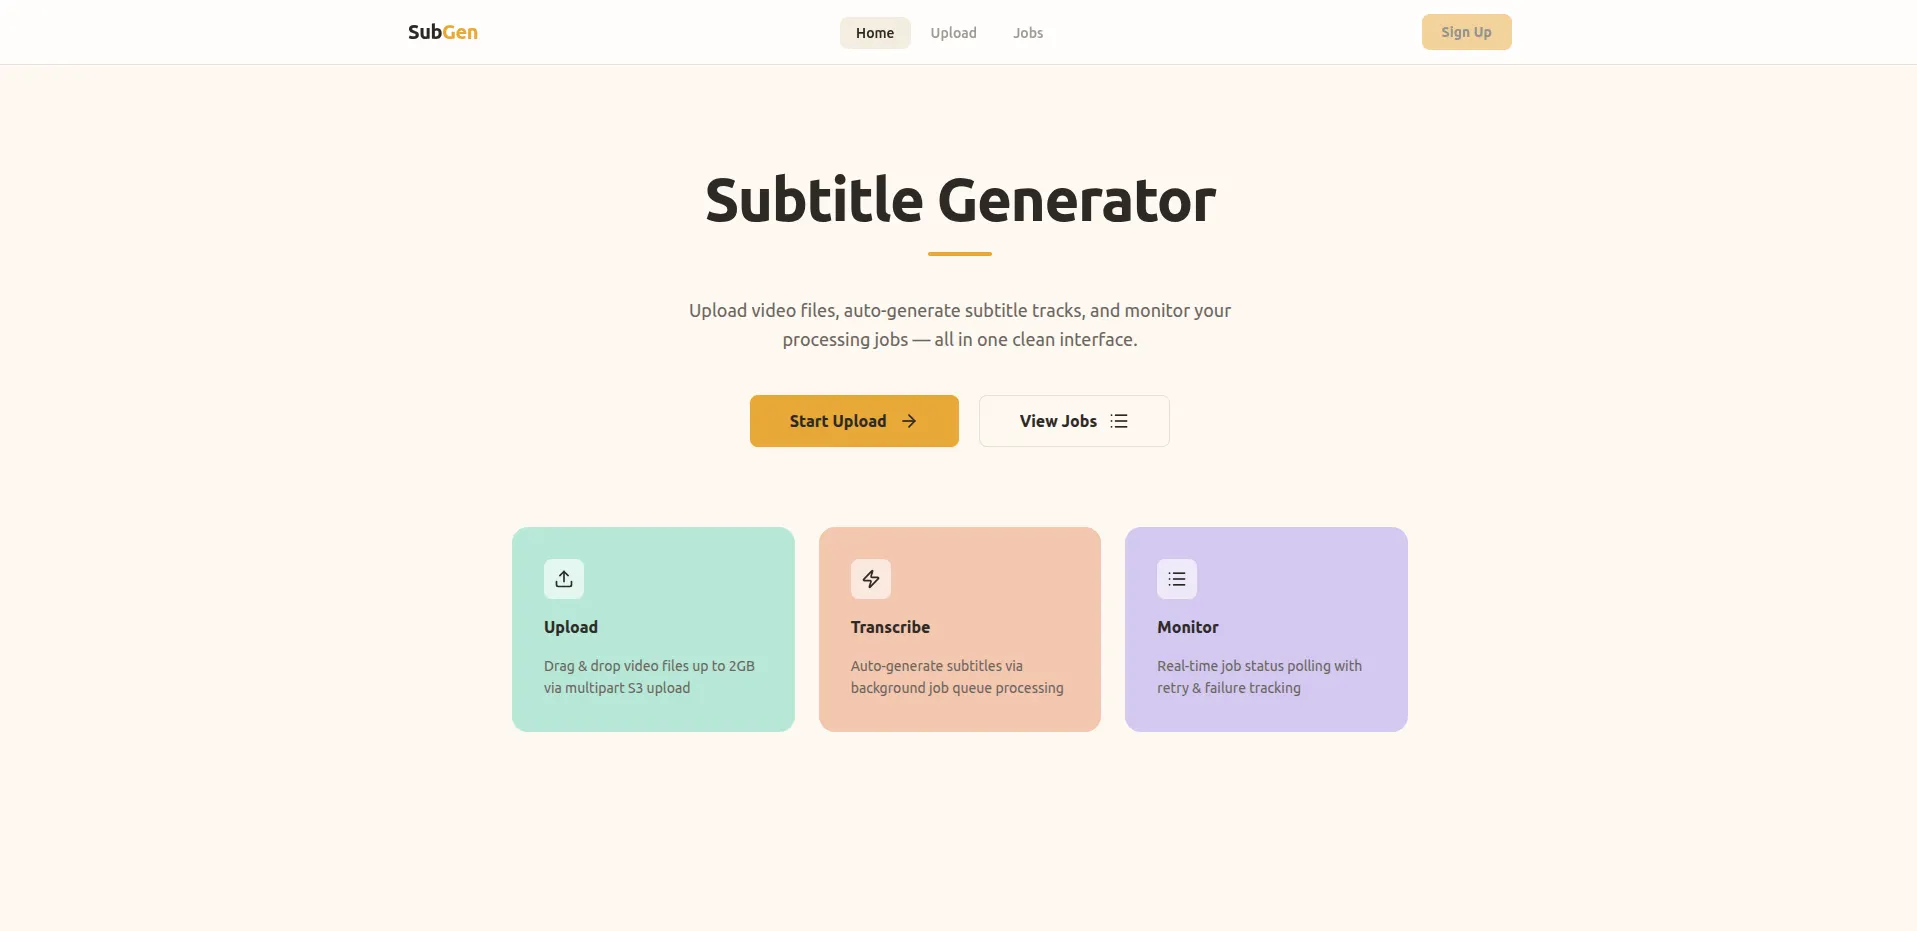
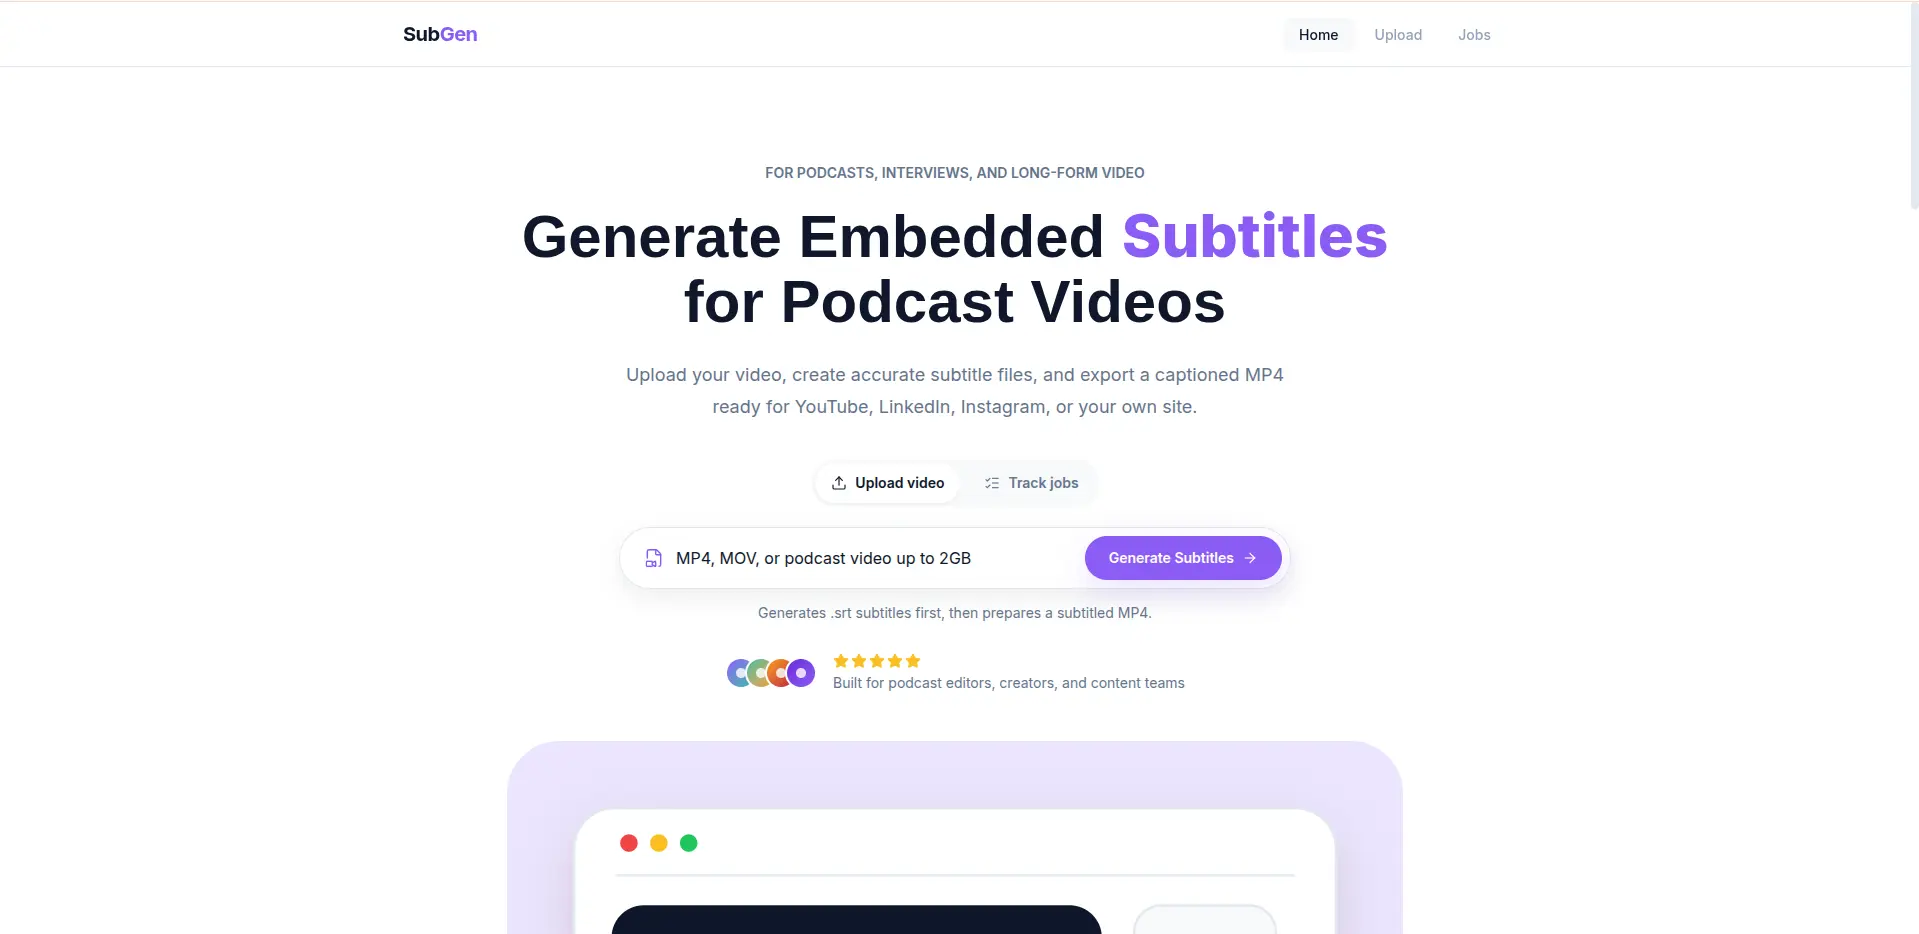
photo change

diff --git a/src/features/portfolio/components/spotify.tsx b/src/features/portfolio/components/spotify.tsx
@@ -19,7 +19,11 @@ export async function Spotify() {
   noStore()
   const { track } = await getSpotifyState()
   const isPlaying = !!track?.isPlaying
-  const trackStatusLabel = track ? "Last played" : null
+  const trackStatusLabel = track
+    ? isPlaying
+      ? "Now playing"
+      : "Last played"
+    : null
   const primaryLabel = track ? track.title : "Currently not playing"
   const secondaryLabel = track ? track.artist : null
 
